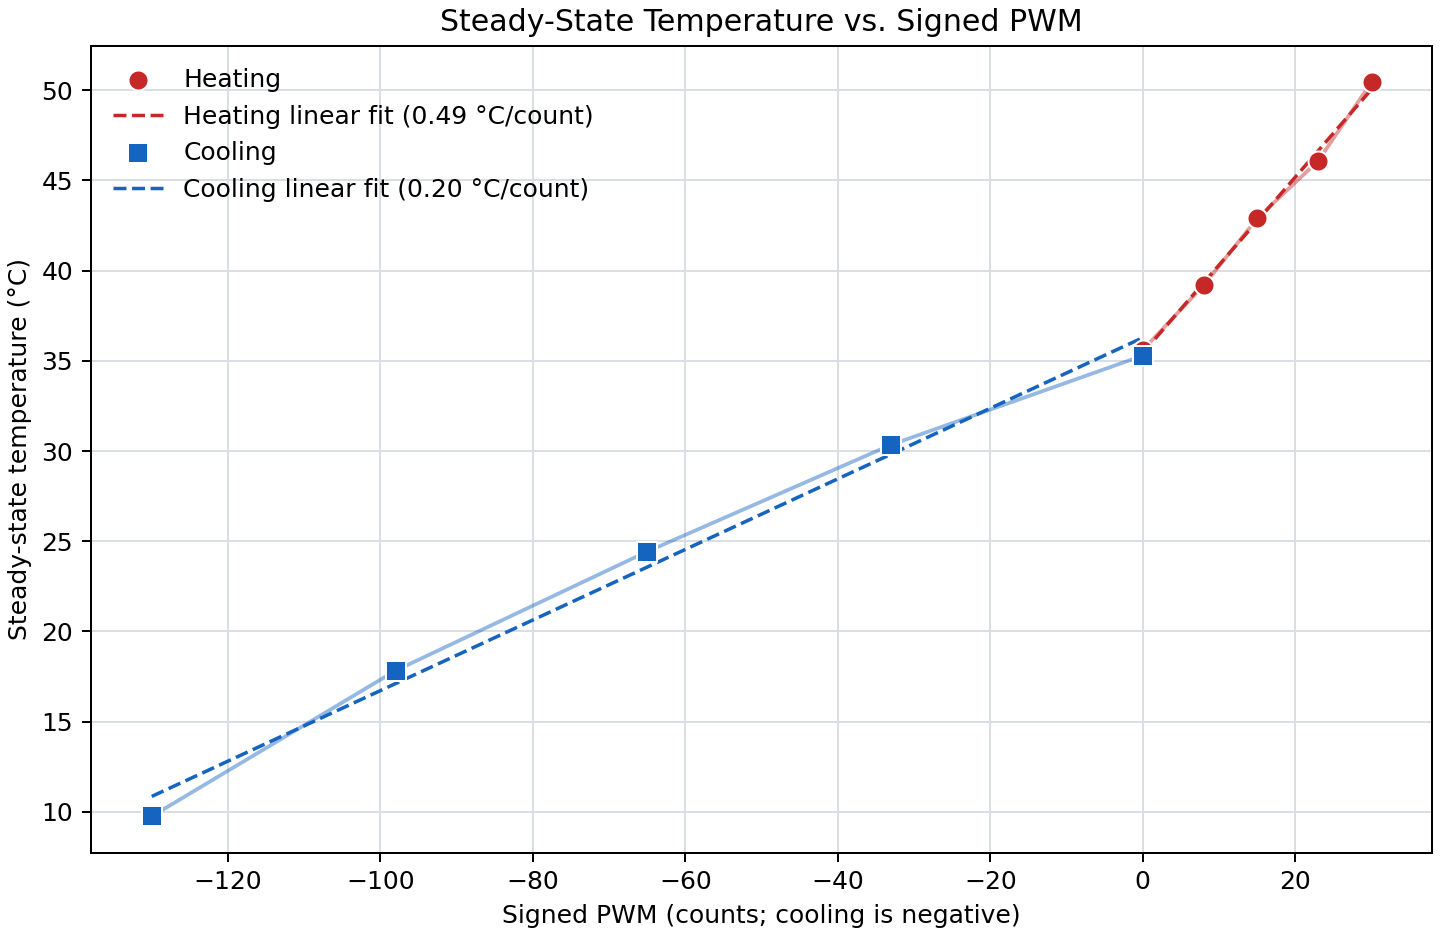
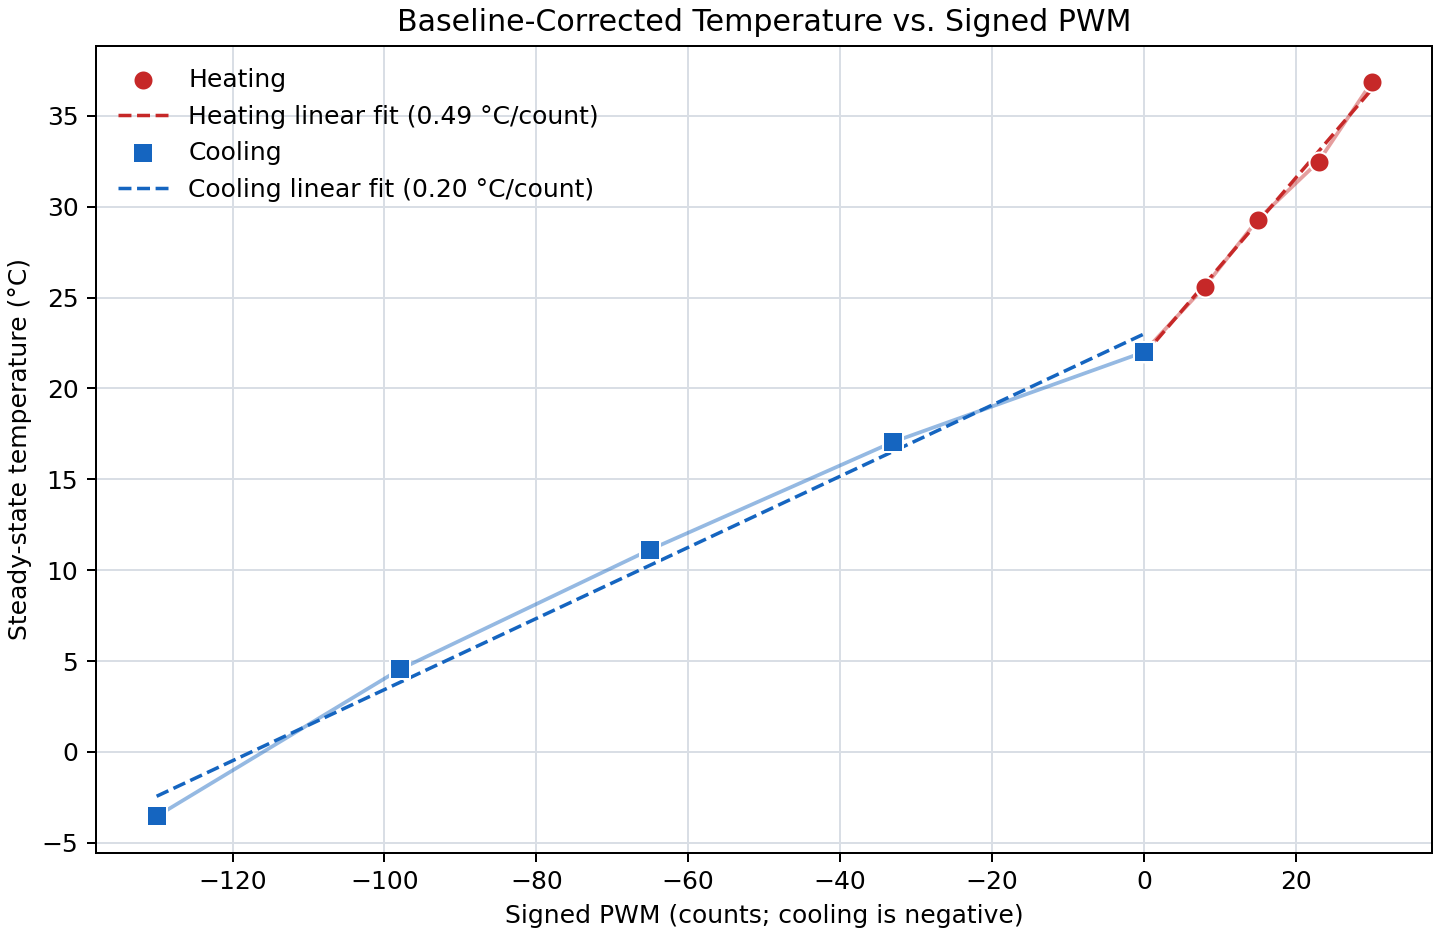
fixed the room temperature for 22C

diff --git a/Part 4/plot_temperature_vs_pwm.py b/Part 4/plot_temperature_vs_pwm.py
@@ -7,6 +7,7 @@ import matplotlib.pyplot as plt
 ROOT = Path(__file__).resolve().parent.parent
 CSV_PATH = ROOT / "temperature_measurements.csv"
 OUTPUT_PATH = Path(__file__).resolve().parent / "temperature_vs_signed_pwm.png"
+CORRECTED_AMBIENT_C = 22.0
 
 spans = {}
 current_key = None
@@ -46,6 +47,20 @@ for name, mode, pwm_values, sign, color, marker in (
         steady_temperature = sum(temperatures[-10:]) / 10
         points.append((sign * pwm, steady_temperature))
 
+    # Correct the temperature baseline without modifying the raw measurements.
+    # Each branch used a slightly different measured zero-PWM temperature, so
+    # shift the whole branch by one constant offset. This places PWM = 0 at the
+    # corrected 22 C ambient while preserving every temperature difference and
+    # therefore preserving the fitted susceptibility in C/PWM count.
+    measured_zero_pwm = next(
+        temperature for signed_pwm, temperature in points if signed_pwm == 0
+    )
+    temperature_offset = CORRECTED_AMBIENT_C - measured_zero_pwm
+    points = [
+        (signed_pwm, temperature + temperature_offset)
+        for signed_pwm, temperature in points
+    ]
+
     x_values = [point[0] for point in points]
     y_values = [point[1] for point in points]
     x_mean = sum(x_values) / len(x_values)
@@ -82,7 +97,7 @@ for name, points, slope, intercept, color, marker in series:
         label=f"{name} linear fit ({slope:.2f} °C/count)",
     )
 
-axes.set_title("Steady-State Temperature vs. Signed PWM")
+axes.set_title("Baseline-Corrected Temperature vs. Signed PWM")
 axes.set_xlabel("Signed PWM (counts; cooling is negative)")
 axes.set_ylabel("Steady-state temperature (°C)")
 axes.grid(True, color="#d9dee5", linewidth=0.8)
@@ -93,4 +108,5 @@ figure.savefig(OUTPUT_PATH, dpi=180)
 for name, points, slope, _, _, _ in series:
     print(f"{name} fit slope: {slope:.4f} °C per PWM count")
     print(f"{name} points: {[(x, round(y, 2)) for x, y in points]}")
+print(f"Corrected zero-PWM temperature: {CORRECTED_AMBIENT_C:.1f} °C")
 print(f"Saved plot: {OUTPUT_PATH}")

diff --git a/README.md b/README.md
@@ -36,21 +36,21 @@ Steady State for 45C heating - 30 pwm
 
 # Part 4: Temperature vs. Signed PWM
 
-![Steady-state temperature versus signed PWM](Part%204/temperature_vs_signed_pwm.png)
+![Baseline-corrected temperature versus signed PWM](Part%204/temperature_vs_signed_pwm.png)
 
-The following table includes values from the temperature_measurements.csv file.
+The following table uses the corrected room-temperature baseline of **22.00 °C at 0 PWM**. A constant offset was applied to each complete heating/cooling series from `temperature_measurements.csv`; the raw data were not overwritten. Because a constant vertical offset does not change $\Delta T/\Delta u$, the fitted slopes remain the same.
 
 | Direction | PWM (counts) | Steady-state temperature (°C) |
 |---|---:|---:|
-| Heating | 0 | 35.60 |
-| Heating | 8 | 39.20 |
-| Heating | 15 | 42.89 |
-| Heating | 23 | 46.09 |
-| Heating | 30 | 50.45 |
-| Cooling | 0 | 35.29 |
-| Cooling | -33 | 30.35 |
-| Cooling | -65 | 24.43 |
-| Cooling | -98 | 17.83 |
-| Cooling | -130 | 9.75 |
+| Heating | 0 | 22.00 |
+| Heating | 8 | 25.60 |
+| Heating | 15 | 29.29 |
+| Heating | 23 | 32.49 |
+| Heating | 30 | 36.85 |
+| Cooling | 0 | 22.00 |
+| Cooling | -33 | 17.06 |
+| Cooling | -65 | 11.14 |
+| Cooling | -98 | 4.54 |
+| Cooling | -130 | -3.54 |
 
-Using a straight-line fit over the measured range, the temperature susceptibility is approximately **0.49 °C per PWM count for heating** and **0.20 °C per PWM count for cooling** (with cooling plotted on the negative-PWM side). These fitted slopes are approximate overall responses.
+Using a straight-line fit over the corrected data, the temperature susceptibility is **0.4872 °C per PWM count for heating** and **0.1957 °C per PWM count for cooling** (approximately **0.49** and **0.20 °C per PWM count**, respectively, with cooling plotted on the negative-PWM side). These are unchanged because only the temperature baseline was shifted.
